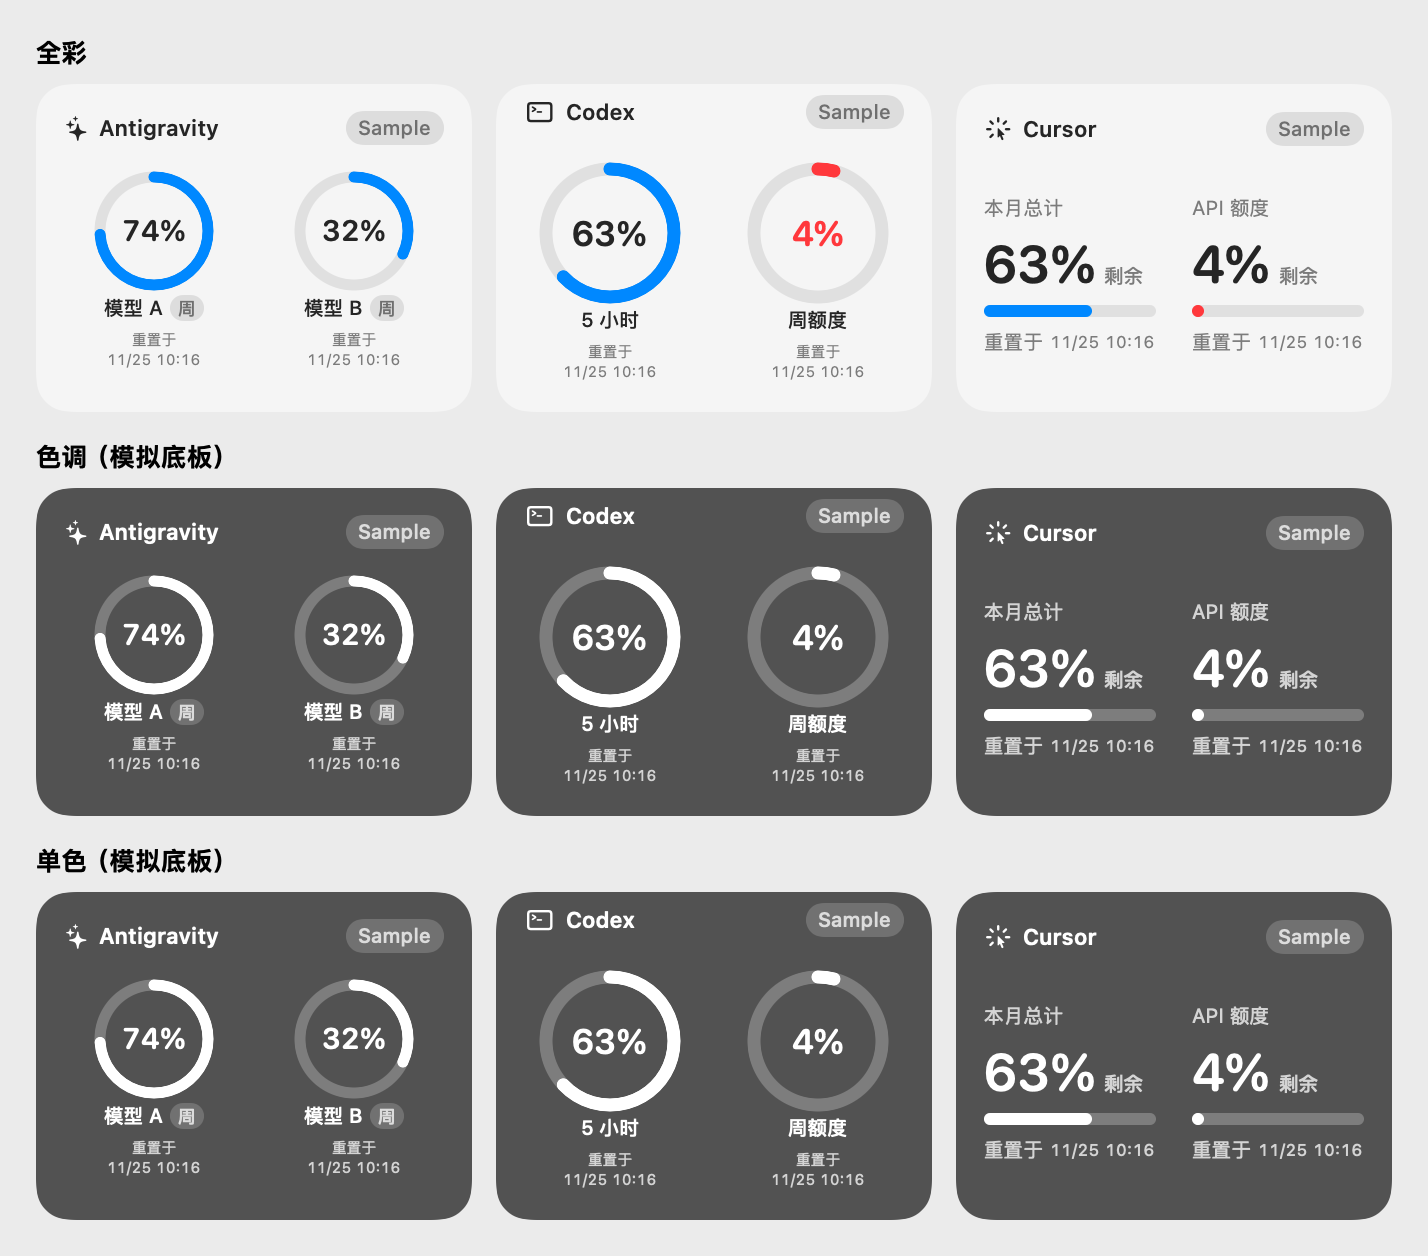
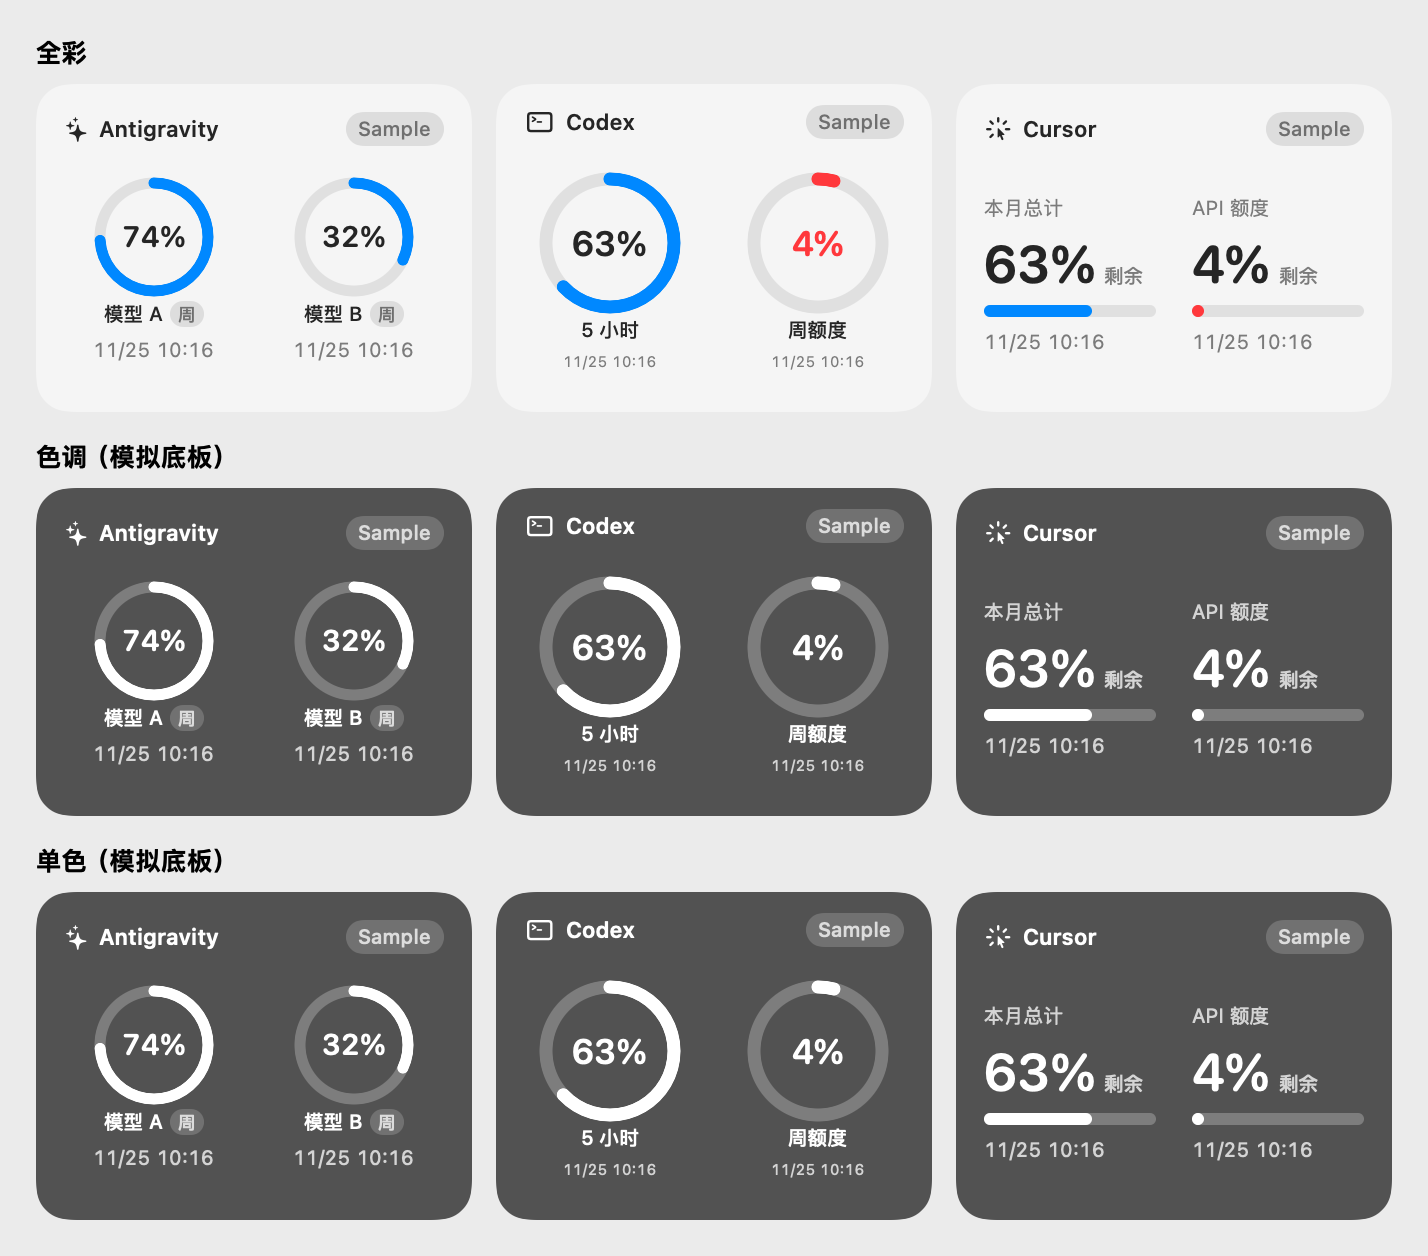
fix(widgets): 精简重置时间文案 (#28)

diff --git a/Widgets/WidgetDesignComponents.swift b/Widgets/WidgetDesignComponents.swift
@@ -130,19 +130,20 @@ struct WidgetResetCountdown: View {
     var body: some View {
         if let interval {
             let usesTimer = interval.upperBound.timeIntervalSince(interval.lowerBound) <= 3600
-            let label: LocalizedStringKey = usesTimer ? "距重置" : "重置于"
 
             Group {
-                if stacked {
+                if usesTimer, stacked {
                     VStack(spacing: 1) {
-                        Text(label)
-                        resetTime(interval, usesTimer: usesTimer)
+                        Text("距重置")
+                        countdown(interval)
+                    }
+                } else if usesTimer {
+                    HStack(spacing: 3) {
+                        Text("距重置")
+                        countdown(interval)
                     }
                 } else {
-                    HStack(spacing: 3) {
-                        Text(label)
-                        resetTime(interval, usesTimer: usesTimer)
-                    }
+                    Text(interval.upperBound, format: .dateTime.month(.defaultDigits).day().hour().minute())
                 }
             }
             .font(.system(size: 10).monospacedDigit())
@@ -153,15 +154,10 @@ struct WidgetResetCountdown: View {
         }
     }
 
-    @ViewBuilder
-    private func resetTime(_ interval: ClosedRange<Date>, usesTimer: Bool) -> some View {
-        if usesTimer {
-            Text(timerInterval: interval, pauseTime: interval.upperBound, showsHours: false)
-                .multilineTextAlignment(stacked ? .center : .leading)
-                .frame(width: 32, alignment: stacked ? .center : .leading)
-        } else {
-            Text(interval.upperBound, format: .dateTime.month(.defaultDigits).day().hour().minute())
-        }
+    private func countdown(_ interval: ClosedRange<Date>) -> some View {
+        Text(timerInterval: interval, pauseTime: interval.upperBound, showsHours: false)
+            .multilineTextAlignment(stacked ? .center : .leading)
+            .frame(width: 32, alignment: stacked ? .center : .leading)
     }
 }
 
